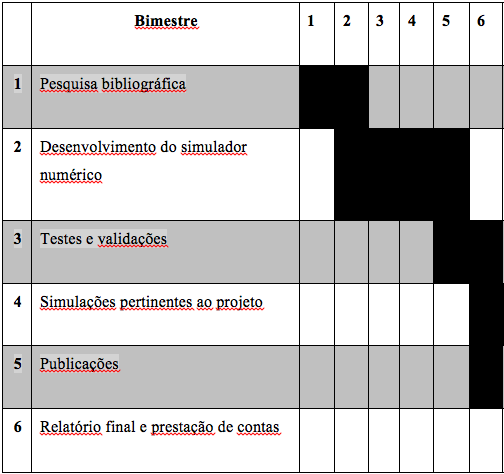
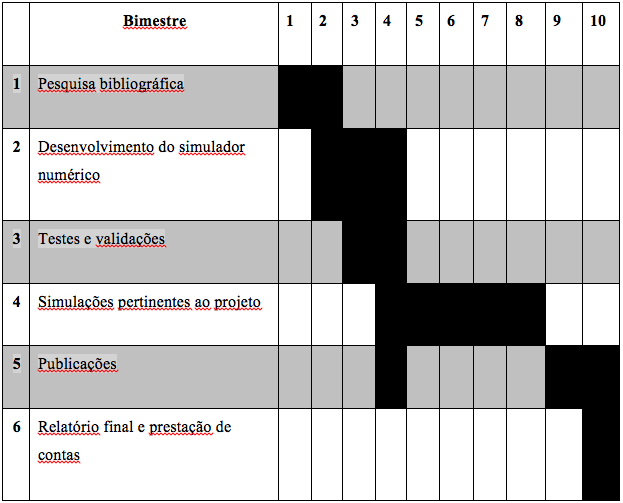
Added text to many sections. Updated workplan figure.

diff --git a/main.tex b/main.tex
@@ -13,15 +13,30 @@
 \usepackage{graphicx}    % pacote para inclusao de figuras,
 \usepackage{subfig}
 %\pagestyle{empty}
-
 \newcommand{\HRule}{\rule{\linewidth}{0.5mm}}
-\newcommand{\sen}{{\rm sen}\,}
+
+%%%%%%%%%%%%%%%%%%%%%%%%%%%%%  MACROS MATEMATICOS %%%%%%%%%%%%%%%%%%%%%%%%%%%%%
+\newcommand{\tr}{{\,\rm tr}\,}
+\newcommand{\sen}{{\,\rm sen}\,}
 \newcommand{\senh}{{\,\rm senh}\,}
-\newcommand{\grad}{{\,\rm \bf grad}\,}
-\newcommand{\rot}{{\,\rm \bf rot}\,}
-\newcommand{\diverg}{{\,\rm \bf div}\,}
-
-
+\newcommand{\diverg}{{\,\rm div}\,}
+\newcommand{\grad}{\,\mathbf{grad}\,}
+\newcommand{\rot}{\,\mathbf{rot}\,}
+\newcommand{\uvet}{\mathbf{u}}
+\newcommand{\vvet}{\mathbf{v}}
+\newcommand{\wvet}{\mathbf{w}}
+\newcommand{\cvet}{\mathbf{c}}
+\newcommand{\xvet}{\mathbf{x}}
+\newcommand{\gvet}{\mathbf{g}}
+\newcommand{\fvet}{\mathbf{f}}
+\newcommand{\nvet}{\mathbf{n}}
+\newcommand{\tvet}{\mathbf{t}}
+\newcommand{\Imat}{\mathbf{I}}
+\newcommand{\Eo}{\mathrm{Eo}}
+\newcommand{\N}{\mathrm{N}}
+\newcommand{\Mo}{\mathrm{Mo}}
+%%%%%%%%%%%%%%%%%%%%%%%%%%%%%  MACROS MATEMATICOS %%%%%%%%%%%%%%%%%%%%%%%%%%%%%
+										    
 \begin{document}	
 \input{./title.tex}
 
@@ -51,6 +66,7 @@ Dados do Bolsista:
 	\item \textbf{Endereço Eletrônico:} {\tt norberto@uerj.br}
 	\item \textbf{Página Profissional:} {\tt http://www.gesar.uerj.br}
 \end{itemize}
+\clearpage
 
 \section{Resumo}
 Após um ano completo do projeto CAPES - Bolsa de Atração de Jovens
@@ -61,7 +77,7 @@ entitulado "Sistema de Simulação Numérica de Escoamentos Multifásicos".
 \section{Introdução}
 
 \section{Objetivos}
-\begin{documents}
+\begin{itemize}
 	\item estudo e desenvolvimento de modelo em três dimensões e axisimétrico
 	      para escoamentos multifásicos;
 	\item estudo de escoamentos multifásicos com ondas capilares em bolhas
@@ -84,7 +100,7 @@ entitulado "Sistema de Simulação Numérica de Escoamentos Multifásicos".
 		  (com participação de universidades internacionais);
 	\item publicação de resultados em canais de comunicação nacionais e
 	      internacionais renomados.
-\end{documents}
+\end{itemize}
 
 \section{Metodologia}
 Nesta seção, detalharemos a metodologia utilizada no desenvolvimento do
@@ -236,9 +252,9 @@ therefore the zero-thickness interface is successfully achieved.
 
 \begin{figure}[ht!]
 		\subfloat[]{
-		\includegraphics[scale=0.3]{interface.pdf}}
+		\includegraphics[scale=0.3]{figs/interface.pdf}}
 		\subfloat[]{
-		\includegraphics[scale=0.3]{property.pdf}}
+		\includegraphics[scale=0.3]{figs/property.pdf}}
 	\caption{Geometrical representation of the interface between the
 	phases. (a) The interface (gray colored) is represented by a set of
 	triangles, edges and nodes which are part of the tetrahedron mesh.
@@ -318,60 +334,114 @@ can be substituted into the discrete momentum equation
 (Eq.~(\ref{eq:ordinarias2})) and the surface tension term calculation
 achieved. 
 
-\section{Atividades Desenvolvidas pelo Bolsista}
-\begin{itemze}
-\item oo
-\item oo
+\section{Atividades Desenvolvidas pelo Bolsista JVT e Bolsista IC}
+
+pelo beneficiário da bolsa de Atração de Jovens Talentos: Gustavo Rabello
+dos Anjos
+\begin{itemize}
+\item estudo e desenvolvimento de modelo em três dimensões e axisimétrico
+para escoamentos multifásicos;
+\item estudo de escoamentos multifásicos com ondas capilares em bolhas
+submetidas a campo de temperatura variável;
+\item realização de experimentos computacionais e laboratoriais de
+decomposição de biomassa e produção de gases com sedimentação de
+material orgânico; de medição da sedimentação/ressuspensão e consumo de
+produtos;
+\item validação dos modelos desenvolvidos para sistemas existentes com
+utilização de tecnologia de última geração;
+\item estudo e desenvolvimento de modelos tridimensionais e axisimétricos
+para simulação numérica de estrutura de não-equilíbrio em sistemas
+químicos, biológico e ambientais;
+\item incorporação das seguintes características ao simulador numérico:
+paralelisação dos núcleos de cálculo intensivo em clusters baseados em
+processadores de vários núcleos (multicore), através do desenvolvimento
+de novos precondicionadores para a aceleração dos métodos iterativos
+implantados e validação do modelo proposto através de soluções
+analíticas e experimentais (com participação de universidades
+internacionais);
+\item publicação de resultados em canais de comunicação nacionais e
+internacionais renomados.
+\end{itemize}
+
+Pelo beneficiário da bolsa de Iniciação Científida: Vinícius Augusto Cinquini Mascarenhas
+\begin{itemize}
+\item Revisão bibliográfica pertinente ao projeto;
+\item familiarização com as técnicas desenvolvidas e implementadas no
+código numérico;
+\item execução de testes no código numérico;
+\item aumento da qualificação profissional do aluno de IC através de
+desenvolvimento e pesquisa.
+\item publicação de trabalho em congresso nacional/internacional.
 \end{itemize}
 
 \section{Resultados Obtidos}
 
 \section{Produção Científica}
+Abaixo estão listados os artigos publicados em canais de comunicação
+internacional em que o pesquisador bolsista teve participação direta.
+
 \begin{itemize}
 	\item Finite Element Simulation of Fingering in Convective Dissolution in
 	      Porous Media Rachel M. Lucena, Norberto Mangiavacchi, José Pontes,
-	      Anne De Wit, Gustavo Anjos, CCIS, 2014
+	      Anne De Wit, Gustavo Anjos, CCIS -- 2014
 	\item Comparative CFD Simulations of Gas Transport in Slug Flow from
 		  Periodic Arrays with Single or Multiple Bubbles G. P.
-		  Oliveira, N. Mangiavacchi, G. Anjosa, J. Pontes, J. R. Thome
+		  Oliveira, N. Mangiavacchi, G. Anjosa, J. Pontes, J. R. Thome,
+		  CCIS -- 2014.
 	\item Topological Remeshing and Locally Supported Smoothing for
 	      Bubble Coalescence in Two-Phase Flows
 		  Gustavo Charles P. de Oliveira, Norberto Mangiavacchi, Gustavo Anjos
-		  John R. Thome
+		  John R. Thome, COBEM -- 2013
 	\item Finite Element Analysis of Pressure-Driven Laminar Flow Inside
 	      Periodically Staggered Arrays
-		  Gustavo Charles P. de Oliveira, Gustavo R. Anjos, José Pontes,
-		  Norberto Mangiavacchi
+		  Gustavo Charles P. de Oliveira, Gustavo R. Anjos, José Pontes,
+		  Norberto Mangiavacchi, CONEM -- 2014
 	\item Numerical Simulation of a Periodic Array of bubbles in a
 	      channel
-	      N. Mangiavacchi, G.C.P. Oliveira, G. Anjos and J. R. Thome
+	      N. Mangiavacchi, G.C.P. Oliveira, G. Anjos and J. R. Thome,
+		  PAMAC -- 2013
 	\item A Survey of Results Concerning Steady Solutions and the
 	      Stability of a Class of Rotating Flows
 		  José Pontes, Norberto Mangiavacchi, Gustavo Rabello dos Anjos,
 		  Carlos Mendeza, Rachel Manhães de Lucena, Gustavo C. P.
-		  Oliveira and Davi V. A. Ferreira
+		  Oliveira and Davi V. A. Ferreira, CCIS -- 2014
 \end{itemize}
 
 \section{Plano de Trabalho}
-O plano de trabalho proposto para o primeiro período de 12 meses de
-projeto pode ser encontrado na Fig.(\ref{fig:}
+O plano de trabalho proposto para o primeiro período de 4 bimestres de
+projeto pode ser encontrado na Fig.(\ref{fig:plano}, juntamente com a
+etapa final do projeto. Nota-se que o plano de trabalho foi reduzido em
+2 bimestres, pois o pesquisador bolsista foi aprovado no concurso
+público para professor adjunto do Departamento de Engenharia Mecânica da
+Universidade do Rio de Janeiro, tomando posse no dia 14 de julho de
+2014. Em decorrência deste fato, o projeto teve seu prazo reduzido para
+final de julho de 2015, totalizando 10 bimestres. 
 
  \begin{figure}[ht!]
  	\begin{center}
  		\includegraphics[angle=0, scale=0.5]{figs/plano.png}
  	\end{center}
- 	\caption{Plano de trabalho proposto para o período inicial }
- 	\label{fig:triangleSet} 
+ 	\caption{Plano de trabalho proposto para o período inicial de
+	execução do projeto Bolsa de Atração de Jovens Talentos - CAPES.}
+ 	\label{fig:plano} 
  \end{figure}
 
+A pesquisa bibliográfica foi realizada com sucesso, onde o bolsista
+identificou os pontos mais importantes da modelagem matemática e
+implementação numérica para realização de sua pesquisa. A partir do 2o.
+bimestre foi iniciado o desenvolvimento do simulador numérico, onde
+novas funcionalidades foram incorporadas ao já existente código. É
+importante notar que o pesquisador bolsista desenvolveu, além de seu
+plano de trabalho inicial, um simulador de escoamentos bidimensional em
+linguagem de script PYTHON para uso acadêmico, que servirá de apoio nas
+aulas ministradas por ele em cursos de graduação e pós-graduação. Alguns
+testes e validações foram realizados com sucesso e os resultados podem
+ser encontrados na seção de Resultados Obtidos, bem como algumas
+simulações pertinentes ao projeto. O pesquisador bolsista participou
+ativamente das publicações relacionadas na seção Produção Científica
+usando as funcionalidades incorporadas ao simulador através deste
+projeto.
 \end{document}	
-
-
-
-
-
-
-
 
 \typeout{ ****************** End of file main.tex ****************** }
 
